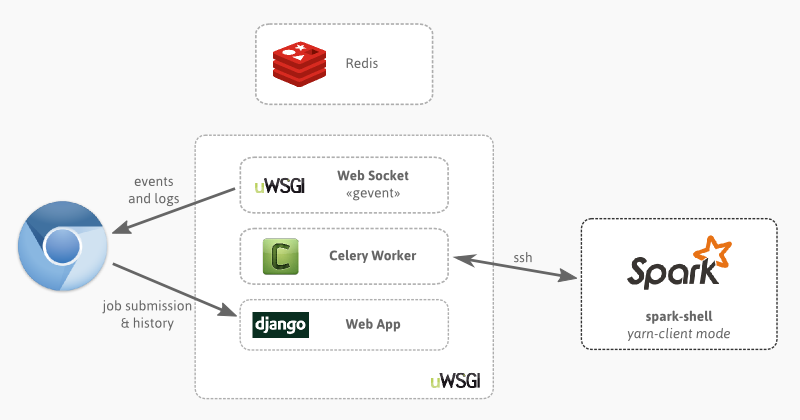
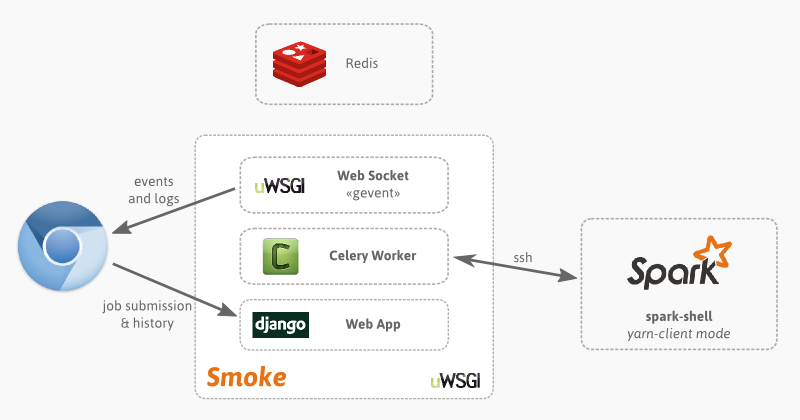
Update architecture diagram

diff --git a/README.md b/README.md
@@ -1,5 +1,5 @@
-Spark UI
-========
+Smoke - Web interface for Spark
+===============================
 
 Web interface to execute Scala jobs in Spark.
 
